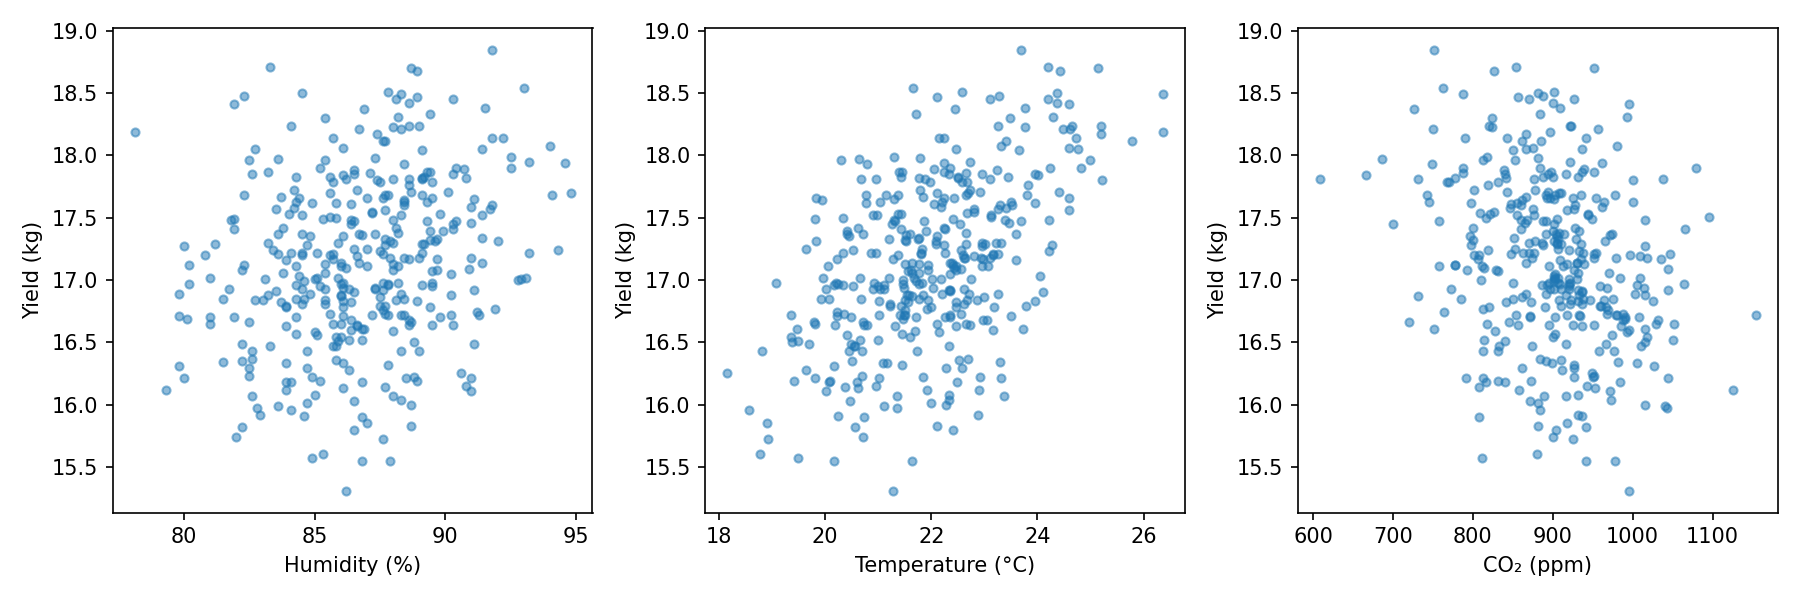
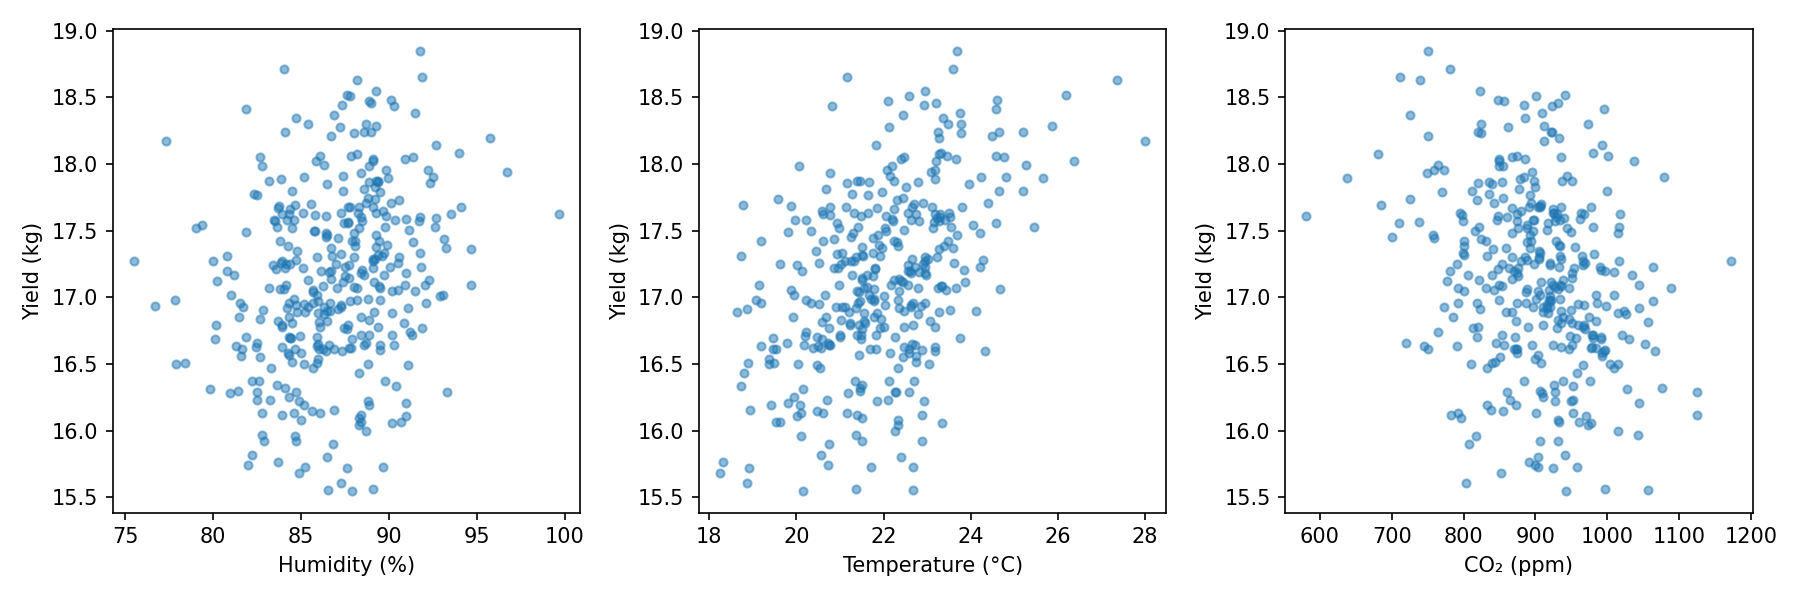
task 6

diff --git a/src/random_forest.py b/src/random_forest.py
@@ -1,0 +1,133 @@
+from sklearn.ensemble import RandomForestRegressor
+from sklearn.metrics import (
+    mean_absolute_error,
+    mean_squared_error,
+    r2_score
+)
+
+import numpy as np
+import pandas as pd
+import matplotlib.pyplot as plt
+import joblib
+import json
+import os
+
+# =====================================
+# Load train-test split data
+# =====================================
+
+X_train = np.load("data/proccessed/X_train.npy")
+X_test = np.load("data/proccessed/X_test.npy")
+
+y_train = np.load("data/proccessed/y_train.npy").squeeze()
+y_test = np.load("data/proccessed/y_test.npy").squeeze()
+
+# =====================================
+# Train Random Forest
+# =====================================
+
+rf = RandomForestRegressor(
+    n_estimators=100,
+    random_state=42,
+    n_jobs=-1
+)
+
+rf.fit(X_train, y_train)
+
+# =====================================
+# Make Predictions
+# =====================================
+
+pred_rf = rf.predict(X_test)
+
+# =====================================
+# Calculate Metrics
+# =====================================
+
+mae = mean_absolute_error(y_test, pred_rf)
+rmse = np.sqrt(mean_squared_error(y_test, pred_rf))
+r2 = r2_score(y_test, pred_rf)
+
+print("\n===== RANDOM FOREST RESULTS =====")
+print(f"MAE  : {mae:.4f}")
+print(f"RMSE : {rmse:.4f}")
+print(f"R²   : {r2:.4f}")
+
+# =====================================
+# Load Linear Regression Metrics
+# =====================================
+
+with open("reports/metrics_linear.json", "r") as f:
+    linear_metrics = json.load(f)
+
+linear_mae = linear_metrics["MAE"]
+linear_rmse = linear_metrics["RMSE"]
+linear_r2 = linear_metrics["R2"]
+
+# =====================================
+# Compare Models
+# =====================================
+
+comparison = pd.DataFrame({
+    "Model": ["Linear Regression", "Random Forest"],
+    "MAE": [linear_mae, mae],
+    "RMSE": [linear_rmse, rmse],
+    "R2": [linear_r2, r2]
+})
+
+print("\n===== MODEL COMPARISON =====")
+print(comparison)
+
+comparison.to_csv(
+    "reports/model_comparison.csv",
+    index=False
+)
+
+# =====================================
+# Feature Importance Plot
+# =====================================
+
+importances = rf.feature_importances_
+
+features = [
+    "temperature_c",
+    "humidity_pct",
+    "co2_ppm"
+]
+
+plt.figure(figsize=(6, 4))
+plt.bar(features, importances)
+
+plt.title("Random Forest Feature Importance")
+plt.xlabel("Features")
+plt.ylabel("Importance")
+
+plt.tight_layout()
+
+os.makedirs("reports/figures", exist_ok=True)
+
+plt.savefig(
+    "reports/figures/rf_importance.png",
+    dpi=150
+)
+
+plt.show()
+
+print("\n===== FEATURE IMPORTANCE =====")
+
+for feature, importance in zip(features, importances):
+    print(f"{feature}: {importance:.4f}")
+
+# =====================================
+# Save Model
+# =====================================
+
+os.makedirs("models", exist_ok=True)
+
+joblib.dump(
+    rf,
+    "models/random_forest.joblib"
+)
+
+print("\nModel saved successfully.")
+print("Location: models/random_forest.joblib")

diff --git a/src/cross_validation.py b/src/cross_validation.py
@@ -1,0 +1,92 @@
+from sklearn.model_selection import TimeSeriesSplit, cross_val_score
+from sklearn.ensemble import RandomForestRegressor
+from sklearn.linear_model import LinearRegression
+
+import numpy as np
+import pandas as pd
+import os
+
+# =====================================
+# Load TRAIN data only
+# =====================================
+
+X_train = np.load("data/proccessed/X_train.npy")
+y_train = np.load("data/proccessed/y_train.npy").squeeze()
+
+# =====================================
+# Time Series Split
+# =====================================
+
+tscv = TimeSeriesSplit(n_splits=5)
+
+# =====================================
+# Models
+# =====================================
+
+rf = RandomForestRegressor(
+    n_estimators=100,
+    random_state=42,
+    n_jobs=-1
+)
+
+lin = LinearRegression()
+
+# =====================================
+# Cross Validation
+# =====================================
+
+rf_scores = cross_val_score(
+    rf,
+    X_train,
+    y_train,
+    cv=tscv,
+    scoring="neg_mean_absolute_error"
+)
+
+lin_scores = cross_val_score(
+    lin,
+    X_train,
+    y_train,
+    cv=tscv,
+    scoring="neg_mean_absolute_error"
+)
+
+# Convert negative MAE to positive
+
+rf_mae = -rf_scores
+lin_mae = -lin_scores
+
+print("\n===== CROSS VALIDATION RESULTS =====")
+
+print("\nRandom Forest")
+print(f"Mean CV MAE : {rf_mae.mean():.4f}")
+print(f"Std CV MAE  : {rf_mae.std():.4f}")
+
+print("\nLinear Regression")
+print(f"Mean CV MAE : {lin_mae.mean():.4f}")
+print(f"Std CV MAE  : {lin_mae.std():.4f}")
+
+# =====================================
+# Save Results
+# =====================================
+
+results = pd.DataFrame({
+    "Model": ["Linear Regression", "Random Forest"],
+    "CV_MAE": [
+        lin_mae.mean(),
+        rf_mae.mean()
+    ],
+    "CV_STD": [
+        lin_mae.std(),
+        rf_mae.std()
+    ]
+})
+
+os.makedirs("reports", exist_ok=True)
+
+results.to_csv(
+    "reports/cv_results.csv",
+    index=False
+)
+
+print("\nResults saved to reports/cv_results.csv")

diff --git a/src/train_linear.py b/src/train_linear.py
@@ -1,53 +1,7 @@
-import pandas as pd
-from sklearn.linear_model import LinearRegression
-from sklearn.metrics import mean_absolute_error, mean_squared_error, r2_score
-import joblib
 import numpy as np
-import json
-import os
 
-# Load train-test split data
 X_train = np.load("data/proccessed/X_train.npy")
-X_test =np.load("data/proccessed/X_test.npy")
+X_test = np.load("data/proccessed/X_test.npy")
 
 y_train = np.load("data/proccessed/y_train.npy").squeeze()
 y_test = np.load("data/proccessed/y_test.npy").squeeze()
-
-# Train model
-model = LinearRegression()
-model.fit(X_train, y_train)
-
-# Predictions
-pred_test = model.predict(X_test)
-
-# Metrics
-mae = mean_absolute_error(y_test, pred_test)
-rmse = np.sqrt(mean_squared_error(y_test, pred_test))
-r2 = r2_score(y_test, pred_test)
-
-print(f"Test MAE:  {mae:.2f} kg")
-print(f"Test RMSE: {rmse:.2f} kg")
-print(f"Test R²:   {r2:.3f}")
-
-print("\nCoefficients:")
-for name, coef in zip(["temp", "humidity", "co2"], model.coef_):
-    print(f"  coef {name}: {coef:.3f}")
-
-# Save metrics
-os.makedirs("reports", exist_ok=True)
-
-metrics = {
-    "MAE": float(mae),
-    "RMSE": float(rmse),
-    "R2": float(r2)
-}
-
-with open("reports/metrics_linear.json", "w") as f:
-    json.dump(metrics, f, indent=4)
-
-# Save model
-os.makedirs("models", exist_ok=True)
-joblib.dump(model, "models/linear_regression.joblib")
-
-print("\nMetrics saved to reports/metrics_linear.json")
-print("Model saved to models/linear_regression.joblib")

diff --git a/reports/cv_results.md b/reports/cv_results.md
@@ -1,0 +1,74 @@
+\# Cross Validation Results
+
+
+
+\## Methodology
+
+
+
+TimeSeriesSplit with 5 splits was used to evaluate model stability while preserving temporal order. Only training data was used during cross-validation.
+
+
+
+\## Results
+
+
+
+| Model             | Mean CV MAE | CV Std |
+
+| ----------------- | ----------- | ------ |
+
+| Linear Regression | 0.4406      | 0.0338 |
+
+| Random Forest     | 0.4748      | 0.0575 |
+
+
+
+\## Interpretation
+
+
+
+Linear Regression achieved a lower cross-validated MAE than Random Forest, indicating better predictive performance on unseen data.
+
+
+
+Linear Regression also showed lower variance across folds, suggesting more stable and consistent behavior.
+
+
+
+\## Overfitting Analysis
+
+
+
+Linear Regression:
+
+
+
+\* Test MAE = 0.4194
+
+\* CV MAE = 0.4406
+
+
+
+Random Forest:
+
+
+
+\* Test MAE = 0.4503
+
+\* CV MAE = 0.4748
+
+
+
+The differences between cross-validation and test errors are small for both models. Therefore, there is no significant evidence of overfitting.
+
+
+
+\## Conclusion
+
+
+
+Linear Regression remains the preferred model because it achieves lower error, better stability, and greater interpretability than Random Forest on this dataset.
+
+
+

diff --git a/reports/rf_conclusion.md b/reports/rf_conclusion.md
@@ -1,0 +1,19 @@
+# Random Forest Conclusion
+
+A Random Forest Regressor was trained and evaluated on the mushroom yield dataset.
+
+The model achieved:
+
+* MAE = 0.4503
+* RMSE = 0.5803
+* R² = 0.3265
+
+When compared with the Linear Regression baseline:
+
+* Linear Regression MAE = 0.4194
+* Linear Regression RMSE = 0.5352
+* Linear Regression R² = 0.4272
+
+The Random Forest model performed worse on all evaluation metrics. This suggests that the relationship between the available sensor variables and mushroom yield is relatively simple and can be modeled effectively using Linear Regression.
+
+Therefore, the additional complexity of Random Forest is not justified for the current dataset, and Linear Regression remains the preferred model.

diff --git a/reports/rf_interpretation.md b/reports/rf_interpretation.md
@@ -1,0 +1,10 @@
+# Random forest interpretation
+
+Temperature had the highest importance,
+indicating that yeild is most sensitive to temperature changes
+
+Humidity was the second most important predictor.
+
+CO2 contributed less but still provided useful predictive information.
+
+The model captures nonlinear interactions between environmental variables better than Linear regression.